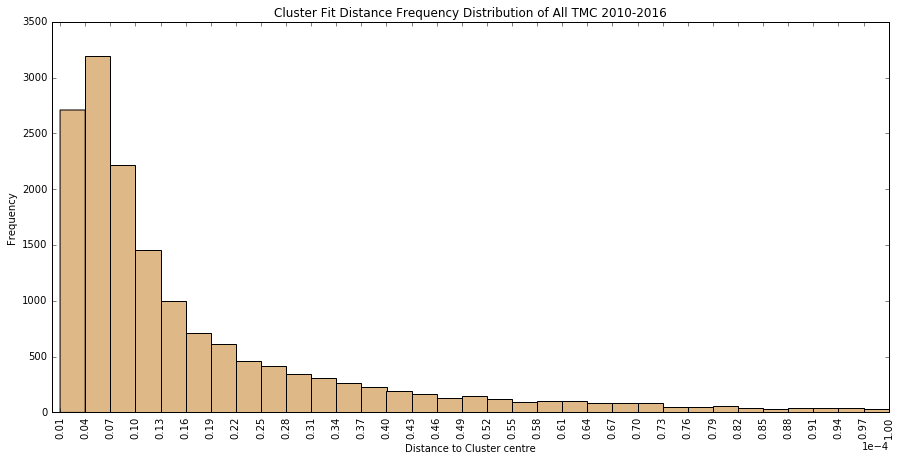
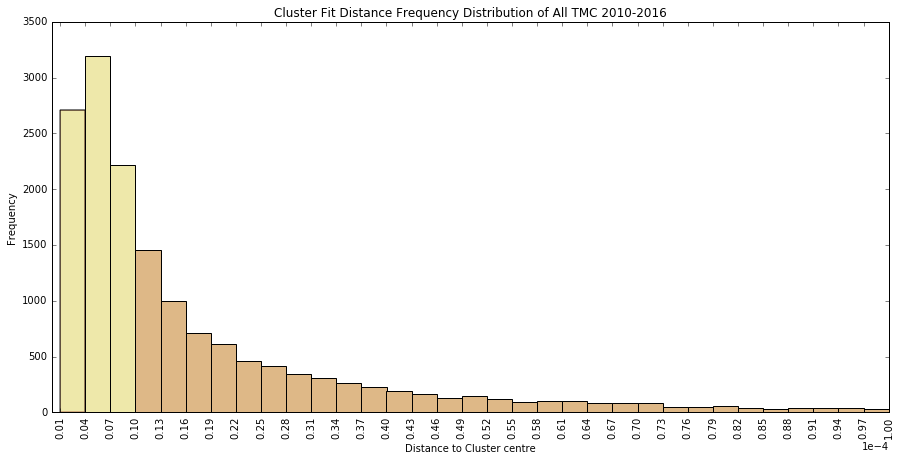
Evaluate Fit Doc Enhancement

Changed region(s): [[0.0622, 0.1215, 0.1556, 0.9111]]

diff --git a/clustering/Evaluation_fit.md b/clustering/Evaluation_fit.md
@@ -6,6 +6,8 @@ Take minimum of distance to average profile normalized by number of points. (dis
 ## Results
 ### Distribution
 ![histogram](img/histogram.png)
+Zooming in on the highest three columns:
+![histogram_zoom](img/histogram_zoom.png)
 The distribution is concentrated at the lower end but the tail is long.
 
 ### Visual Validation
@@ -33,12 +35,21 @@ The cutoff for a good fit should be drawn somewhere on the order of -5. However,
 Cluster 2 (relatively consistent volume throughout the day) are generally lesser fit. Same is demonstrated in the profiles above, the lesser fit ones mostly belong to this cluster. 
 Same goes for cluster 5, which also represents no particular up/down trend during the day.
 
+### Distance distribution by road class
+![distribution_by_roadclass](img/distribution_by_roadclass.png)
+
+As expected, reliability of the clustering process decreases as total volume decreases because of
+1. lack of pattern on roads with less volume
+2. counts are more susceptible to random errors. 
+
 ### Percent Difference between Min and Second Min
 ![diff-min-sec-min](img/diff-min-sec-min.PNG)
 
-Ideally, the percent difference should be close to 1. However, this plot suggests that at least two of our cluster centres should quite similar. 
+Below are examples in the first bin, middle bin, and last bin, respectively.  
+![diff-mins-1](img/diff-mins-1.png)
+![diff-mins-2](img/diff-mins-2.png)
+![diff-mins-3](img/diff-mins-3.png)
 
-### Percent Difference between Min and Average without Min
-![diff-wo-min](img/diff-wo-min.PNG)
-
-The result here shows that the min distance is generally very different compared to the rest of clusters.
+Ideally, the percent difference should be close to 1. However, the plots suggest that
+1. at least two of our cluster centres should quite similar
+2. some of the data is messy.
